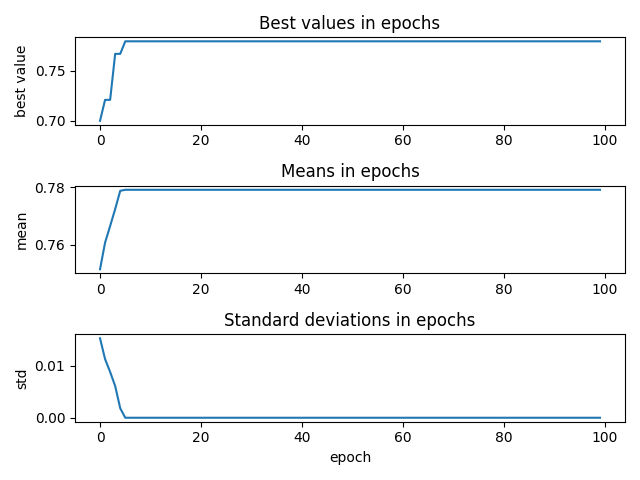
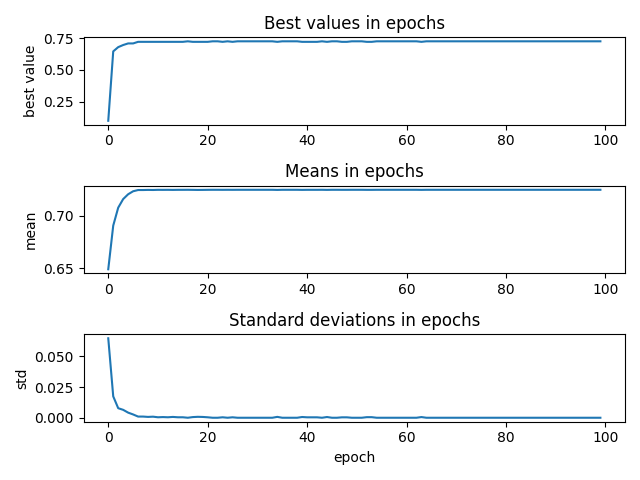
Second example from pdf and doing exercise 1

diff --git a/pythonDeap/pdf_code_formatted.py b/pythonDeap/pdf_code_formatted.py
@@ -1,3 +1,15 @@
+"""
+1.Przygotuj implementację genetycznej optymalizacji parametrów i 
+genetycznej selekcji dodatkowo dla pięciu wybranych klasyfikatorów ze 
+sklearn i porównaj wyniki uzyskane na zbiorze danych podanym w zadaniu. 
+
+2.Wykorzystaj powyższe metody(przynajmniej 5 klasyfikatorów) na zbiorze danych, 
+który opracowujesz w ramach projektu z metod odkrywania wiedzy danych. 
+Zaprezentuj różnicę między twoimi dotychczasowymi rezultatami, wynikami 
+osiągniętymi z wykorzystaniem algorytmów genetycznych. Zrównoleglij 
+obliczenia zgodnie z instrukcją z projektu nr 3. 
+"""
+
 import pandas as pd 
 from sklearn import model_selection 
 from sklearn.preprocessing import MinMaxScaler 
@@ -12,16 +24,14 @@ def load_data():
   df.drop('ID',axis=1,inplace=True)
   df.drop('Recording',axis=1,inplace=True)
 
-  numberOfAtributtes=len(df.columns) 
-  print(numberOfAtributtes)
+  # mms = MinMaxScaler() 
+  # df_norm = mms.fit_transform(df) 
+  # clf = SVC() 
+  # scores = model_selection.cross_val_score(clf, df_norm, y, cv=5, scoring='accuracy', n_jobs=-1) 
+  # print(scores.mean())
 
-
-  mms = MinMaxScaler() 
-  df_norm = mms.fit_transform(df) 
-  clf = SVC() 
-  scores = model_selection.cross_val_score(clf, df_norm, y, cv=5, scoring='accuracy', n_jobs=-1) 
-  print(scores.mean())
-  return df, y, len(df.columns)
+  numberOfAttributes=len(df.columns)
+  return df, y, numberOfAttributes
 
 
 if __name__ == "__main__":
@@ -47,8 +57,9 @@ def SVCParameters(numberFeatures,icls):
   return icls(genome)
 
 from sklearn import metrics 
-from sklearn.model_selection import StratifiedKFold
+from sklearn.model_selection import StratifiedKFold, StratifiedShuffleSplit, GridSearchCV,KFold,LeaveOneOut,GroupKFold
 def SVCParametersFitness(y,df,numberOfAtributtes,individual):     
+  # Chyba gorsza wersja z pierwszego przykładu
   split=5 
   cv = StratifiedKFold(n_splits=split)     
   mms = MinMaxScaler()   
@@ -67,6 +78,7 @@ def SVCParametersFitness(y,df,numberOfAtributtes,individual):
   return resultSum / split,
 
 def mutationSVC(individual):
+  # Chyba gorsza wersja z pierwszego przykładu
   numberParamer= random.randint(0,len(individual)-1) 
   if numberParamer==0: 
     # kernel 
@@ -92,6 +104,7 @@ def mutationSVC(individual):
 
 
 def SVCParametersFeatures(numberFeatures,icls):
+  # Chyba gorsza wersja z pierwszego przykładu
   genome = list() 
   # kernel 
   listKernel = ["linear","rbf", "poly", "sigmoid"]
@@ -114,7 +127,8 @@ def SVCParametersFeatures(numberFeatures,icls):
 
 def SVCParametersFeatureFitness(y,df,numberOfAtributtes,individual):
   split=5 
-  cv = StratifiedKFold(n_splits=split)
+  # cv = StratifiedKFold(n_splits=split)
+  cv=KFold(n_splits=split)
   listColumnsToDrop=[] #lista cech do usuniecia 
   for i in range(numberOfAtributtes,len(individual)): 
     if individual[i]==0: #gdy atrybut ma zero to usuwamy cechę 
@@ -123,6 +137,8 @@ def SVCParametersFeatureFitness(y,df,numberOfAtributtes,individual):
   mms = MinMaxScaler()
   df_norm = mms.fit_transform(dfSelectedFeatures)
   estimator = SVC(kernel=individual[0],C=individual[1],degree=individual[2],gamma=individual[3],coef0=individual[4],random_state=101)
+  
+  # StratifiedKFold, StratifiedShuffleSplit, GridSearchCV,KFold,LeaveOneOut,GroupKFold
 
   resultSum = 0 
   for train, test in cv.split(df_norm, y):
@@ -135,7 +151,7 @@ def SVCParametersFeatureFitness(y,df,numberOfAtributtes,individual):
   return resultSum / split,
 
 
-def mutationSVC(individual):
+def mutationSVC2(individual):
   numberParamer= random.randint(0,len(individual)-1) 
   if numberParamer==0: 
     # kernel 
@@ -161,16 +177,3 @@ def mutationSVC(individual):
       individual[numberParamer] = 1 
     else:             
       individual[numberParamer] = 0
-
-
-"""
-1.Przygotuj implementację genetycznej optymalizacji parametrów i 
-genetycznej selekcji dodatkowo dla pięciu wybranych klasyfikatorów ze 
-sklearn i porównaj wyniki uzyskane na zbiorze danych podanym w zadaniu. 
-
-2.Wykorzystaj powyższe metody(przynajmniej 5 klasyfikatorów) na zbiorze danych, 
-który opracowujesz w ramach projektu z metod odkrywania wiedzy danych. 
-Zaprezentuj różnicę między twoimi dotychczasowymi rezultatami, wynikami 
-osiągniętymi z wykorzystaniem algorytmów genetycznych. Zrównoleglij 
-obliczenia zgodnie z instrukcją z projektu nr 3. 
-"""

diff --git a/pythonDeap/oe_pdf_example2.py b/pythonDeap/oe_pdf_example2.py
@@ -7,7 +7,7 @@ import random
 import numpy as np
 import time
 import sys
-from pdf_code_formatted import SVCParameters, SVCParametersFitness, load_data, mutationSVC
+from pdf_code_formatted import SVCParametersFeatures, SVCParametersFeatureFitness, load_data, mutationSVC2
 
 creator.create("FitnessMax", base.Fitness, weights=(1.0,))
 creator.create("Individual", list, fitness=creator.FitnessMax)
@@ -45,11 +45,11 @@ def getToolbox(pool=None):
     toolbox = base.Toolbox()
     if __name__ == "__main__" and pool is not None:
         toolbox.register("map", pool.map) 
-    toolbox.register('individual',SVCParameters, numberOfAtributtes, creator.Individual) 
-    toolbox.register("evaluate", SVCParametersFitness,y,df,numberOfAtributtes)
+    toolbox.register('individual',SVCParametersFeatures, numberOfAtributtes, creator.Individual) 
+    toolbox.register("evaluate", SVCParametersFeatureFitness,y,df,numberOfAtributtes)
     toolbox.register("population", tools.initRepeat, list, toolbox.individual)
     toolbox.register("select", tools.selTournament, tournsize=5)
-    toolbox.register("mutate", mutationSVC)
+    toolbox.register("mutate", mutationSVC2)
     toolbox.register("mate", tools.cxTwoPoint)
     return toolbox
 
